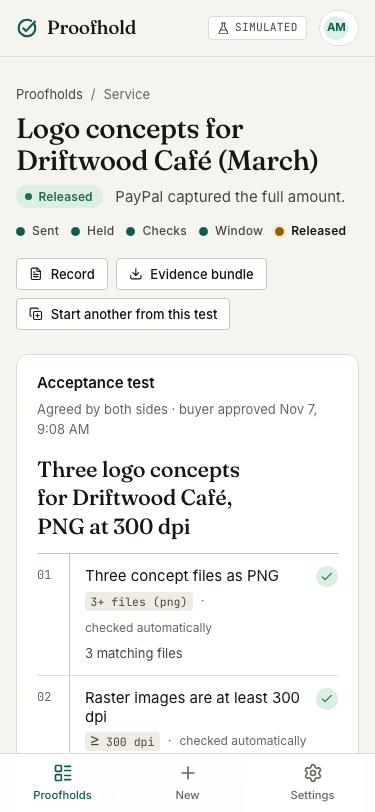
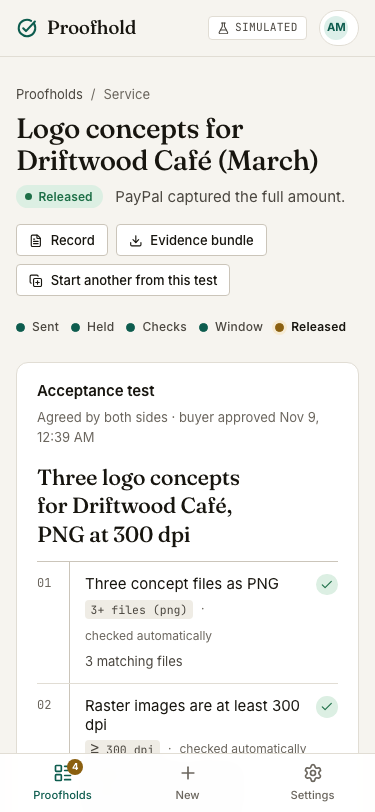
docs: design iteration 2, motion system, third critique and gallery
The Braintrust study and what was taken from it, the motion table, the third
critique's 23 findings with their fixes, the regenerated screenshots with the
new inspector shot, and the build log entry.

diff --git a/scripts/screens.ts b/scripts/screens.ts
@@ -29,6 +29,11 @@ const shots: {
 }[] = [
   { name: "landing", path: "/", widths: [1280, 375] },
   { name: "ledger", path: "/app", widths: [1280, 375] },
+  {
+    name: "ledger-inspector",
+    path: `/app?peek=${by("awaiting_buyer").id}`,
+    widths: [1440],
+  },
   { name: "compose", path: "/app/new?kind=service&amount=420" },
   {
     name: "seller-window-open",

diff --git a/docs/acceptance-matrix.md b/docs/acceptance-matrix.md
@@ -124,6 +124,38 @@ A separate reviewer drove the whole journey again at 375, 768 and 1280 px in bot
 
 Verified after the fixes: 128 unit tests, four flows and both axe scans pass on the integrated tree.
 
+## Third critique pass (2026-11-09, design iteration 2)
+
+An independent reviewer read the iteration-2 source and drove the served build at 390, 768, 1024, 1230 and 1440 px in both schemes, measuring with scripts rather than by eye. Twenty-three findings; what was done with each:
+
+| #   | Finding                                                                                                        | Fix                                                                                                                                                                                                  |
+| --- | -------------------------------------------------------------------------------------------------------------- | ---------------------------------------------------------------------------------------------------------------------------------------------------------------------------------------------------- |
+| 1   | The ledger never reached its dense layout at 1440 px: `main` kept `margin: 0 auto` inside the shell grid, so it was 973 px wide and the rows fell under the container breakpoint | `main` stretches in the shell grid; the dense row layout starts at 46rem of container width and drops the time column between 46 and 58rem so rows stay one line beside the inspector |
+| 2   | Below 72rem the inspector rendered above the list and off-screen after a `scroll={false}` click                   | The inspector and the peek buttons are desktop tools (≥72rem); on narrower screens the row opens the detail page                                                                                     |
+| 3   | Keyboard users had to tab through every remaining row to reach the inspector; Escape did nothing                  | The inspector is a client component: focus moves to its title when it opens, Escape closes it, peek links carry `aria-controls`, and it precedes the list in DOM order (visual order by grid `order`) |
+| 4   | Everything below the hero was `opacity: 0` in server HTML until hydration; no-JS, print and cold loads saw blank sections | `Reveal` no longer hides anything on the server; at mount it hides only what is below the fold, then reveals on entry                                                                           |
+| 5   | The hero sample hard-coded dates, so after 2026-11-15 it would read "Releases in now"                               | `sample(now)` derives every date from the current time (agreed 3 d ago, delivered 1 h ago, window open 71 h)                                                                                         |
+| 6   | Hero fine print said "runs against the PayPal sandbox today" while the same server said "Simulated PayPal"         | Fine print and the frame's badge are rendered from `systemInfo()`                                                                                                                                    |
+| 7   | The hero frame was 2026 px tall on phones before any explanation                                                     | The window is cropped (28–40rem, 36rem on desktop) with a fade and a caption that says so                                                                                                            |
+| 8   | The inspector's compact rail clipped its last steps in a 20rem panel                                                 | The inspector uses the dot rail                                                                                                                                                                      |
+| 9   | The inspector's seal read $0.00 DISPUTED and "HELD BY PAYPAL" around a CAPTURED stamp                                | The remaining amount is shown only while a hold is open; `holderFor(status)` words the ring (Captured by PayPal, Returned to buyer, In PayPal dispute…) on the inspector and the hold card            |
+| 10  | Double ellipsis after the hash                                                                                       | Removed                                                                                                                                                                                              |
+| 11  | "Outbox 44" counted every message ever, in the attention colour                                                      | Counts messages from the last day, in a quiet grey                                                                                                                                                    |
+| 12  | 466 px of empty sidebar                                                                                              | A resting block: the amount held by PayPal, the number of holds, and the three groups with counts as links                                                                                           |
+| 13  | Phone rows: title and status pill fought for one line                                                                | Stacked layout gives the title the full width and moves the pill to the time row                                                                                                                      |
+| 14  | Section 05 was the only block without a UI plate                                                                     | A three-step objection plate: the buyer's reason, the seller's 60% offer, PayPal's partial capture                                                                                                    |
+| 15  | Three "See it in the app" links all went to the start page                                                            | Removed; the plate shows the thing instead                                                                                                                                                           |
+| 16  | On the teal block the accent clause was the low-contrast one                                                          | The accent is `--brand-ink`; the rest of the headline is dimmed                                                                                                                                       |
+| 17  | 0.65rem type under the brand scale's floor                                                                            | Every mono label uses `--text-xs`                                                                                                                                                                     |
+| 18  | "typical time to release under a minute" came from demo windows                                                       | Suffixed "(demo windows)" when `DEMO_SILENCE_MINUTES` is set                                                                                                                                           |
+| 19  | The peek button was faint and unlabelled                                                                               | `title="Inspect"`, ink colour, brand colour when active                                                                                                                                                 |
+| 20  | Row rings never showed verdicts                                                                                        | Checks are loaded for the whole list in one query and the rings colour by verdict                                                                                                                      |
+| 21  | The frame's address bar showed an invented domain                                                                      | Path only                                                                                                                                                                                              |
+| 22  | The section index had no programmatic current item                                                                     | `aria-current` on the active link                                                                                                                                                                      |
+| 23  | Buyer intro said "sent you a payment hold to approve" on released proofholds                                           | Tense by status                                                                                                                                                                                        |
+
+Also from the pass: the empty first header cell of the compare table has a visually hidden "Question". Verified as fine without change: every sampled colour pair, hit targets, reduced motion, dark mode, no horizontal overflow at any width.
+
 ## Known gaps
 
 - Everything PayPal is simulated on this machine; rows 17 and 19 turn green only with sandbox credentials and a public URL.

diff --git a/docs/design-iteration-2.md b/docs/design-iteration-2.md
@@ -1,0 +1,31 @@
+# Design iteration 2: what Braintrust does well, and what Proofhold takes from it
+
+Studied on 2026-11-08: [braintrust.dev](https://www.braintrust.dev), its [Observe product page](https://www.braintrust.dev/product/observe), [docs](https://docs.braintrust.dev) and [pricing](https://www.braintrust.dev/pricing). Principles only; Proofhold keeps its own palette, type and voice.
+
+## What Braintrust does that works
+
+| Pattern | What it does for the reader | Proofhold's version |
+| --- | --- | --- |
+| **The product is the hero.** A full, realistic UI frame (sidebar, filter bar, numbered table, inspector panel) sits under a one-line coloured band that names what you are looking at; the frame is cropped at the bottom so it reads as a window, not a poster. | You understand the product before reading a paragraph. | The hero frame is the real seller page for a held proofhold, rendered by the real components, under a teal band: "The seller's page, the moment the buyer approves." |
+| **A sticky section index** in mono caps at the left (WORKFLOW, PLATFORM, SCALE…), with a dash that moves as you scroll. | You always know where you are in a long page and can jump. | BRIEF · HOLD · CHECKS · RELEASE · WHEN IT GOES WRONG · WHAT IS REAL · COMPARE, scroll-spied, hidden on phones. |
+| **Colour blocks per section**, alternating paper with bold tints, each carrying one dense UI plate on a muted tinted backing. | Rhythm; each section is one idea with one piece of evidence. | Paper, brand-soft, held-soft and an ink band for the failure paths; plates carry the Sheet, the buyer page, the verdicts, the seals, the rail. |
+| **Feature triads**: icon, bold title, one-line description, then pill links "Explore … ↗". | Scannable; the link is a promise, not a button. | Three per section, lucide icons, arrow pills that go to the docs or the app. |
+| **Dense, honest data UI**: filter chips (All logs ▾ · Traces ▾ · All time ▾ · Add filter), numbered rows, small mono ids, relative times, a right-hand inspector with tabs. | Operators trust what looks like the real tool. | The ledger gets a chip bar (group, kind, sort, search), numbered rows with mono ids and relative times, and an inspector panel that opens beside the list on desktop without leaving the page. |
+| **Left sidebar app shell** with a workspace switcher, icon list and counts. | Navigation that scales past three items and shows state at rest. | A sidebar on desktop (Proofholds with a needs-attention count, New, Outbox, Settings, and a modes block); the bottom bar stays on phones. |
+| **Headline rhythm**: a plain large headline at a light weight, with the second clause in the brand colour. | One idea, one accent. | Fraunces headline, the second clause in teal. |
+| **Micro-motion**: hover icons shift 5–7 px over 350–400 ms on one curve; nothing loops. | Feedback that explains, never decorates. | Feature icons nudge on hover; sections rise 12 px as they enter; the seal arcs draw in on view; the index dash slides. All collapse under reduced motion. |
+
+What we do not take: the blue, the tick-tape art, the testimonial wall (we have no customers and will not invent any), the pricing page (there is no price), and copy that speaks to AI teams.
+
+## Changes in this iteration
+
+1. **Landing rebuilt** around the frame-and-index structure above. Same start form, same comparison table, same honesty section, new arrangement and motion.
+2. **App shell**: a left sidebar on desktop with counts and a modes block; the phone layout is unchanged.
+3. **Ledger**: chip filter bar, numbered rows with mono ids and relative time, and an inspector panel (`?peek=<id>`) that shows the seal, the next step, the buyer, the amounts and the links beside the list.
+4. **Motion system** written down: durations 120/180/280/400 ms, one ease-out for entrances and one ease-in-out for position changes, reveal-on-view for landing sections, hover nudges, no loops except the live "checking" pulse.
+
+Verification: the existing flows, the axe scan, screenshots at three widths, a third independent critique.
+
+## Shipped (2026-11-09)
+
+All four changes are on `feat/iteration-2-landing-shell`. Two departures from the plan above, both deliberate: the hero frame shows the buyer window rather than "the moment the buyer approves", because the window is the state where every piece (verdicts, countdown, seal, agreement) is on screen at once; and the triads carry mono pills rather than icons, which keeps the landing on the ledger's own vocabulary. The third critique pass and its fixes are in [acceptance-matrix.md](acceptance-matrix.md).

diff --git a/docs/design.md b/docs/design.md
@@ -33,7 +33,18 @@ Looked at on 2026-10-28, in the built-in browser, at phone width. Principles onl
 
 ### Motion
 
-Three durations (120, 180, 280 ms), one ease-out. The stamp lands with a short scale-down and settle; ring arcs draw in when a verdict arrives; status dots pulse only while something is genuinely in progress. Under `prefers-reduced-motion`, every transition collapses to an instant change and nothing pulses.
+Four durations and two curves, written down so every surface moves the same way:
+
+| Token | Value | Used for |
+| --- | --- | --- |
+| `--t-fast` | 120 ms | colour and background changes on hover and focus |
+| `--t-base` | 180 ms | hover nudges (an arrow moves 2–3 px, a card lifts 2 px), the stamp's settle |
+| `--t-slow` | 280 ms | position changes: the inspector sliding in, the index dash, ring arcs drawing in |
+| reveal | 400 ms | landing sections rising 12 px as they first enter view, staggered 60 ms across a triad |
+| `--ease-out` | cubic-bezier(0.2, 0.8, 0.2, 1) | every entrance and nudge |
+| `--ease-in-out` | cubic-bezier(0.65, 0, 0.35, 1) | anything that moves from one resting place to another |
+
+Rules: nothing loops except the status dot while a check is genuinely running; motion explains a change of state and never decorates; anything the reader has already scrolled past is shown at once rather than waiting for a reveal. Under `prefers-reduced-motion`, every transition collapses to an instant change and nothing pulses. The second iteration, which took the frame-and-index landing, the sidebar shell and the ledger inspector from a study of Braintrust, is in [design-iteration-2.md](design-iteration-2.md).
 
 ### Voice
 

diff --git a/README.md b/README.md
@@ -93,7 +93,9 @@ The interface is built on one idea: the acceptance test is a document and the Pa
 - **The Sheet** (`src/components/proofhold/test-view.tsx`): the test as a ruled page with a numbered margin, who agreed and when, and the hash that was written into the PayPal order.
 - **The Rail** (`src/components/proofhold/rail.tsx`): Proposed, Held, Checking, Buyer window, Released or Returned, on every page and on the landing.
 
-Tokens live in `src/app/globals.css`; the rules, colour contrast table and asset licences are in [docs/brand.md](docs/brand.md); the research and the three directions considered are in [docs/design.md](docs/design.md).
+Around those three pieces: a landing page that shows the product itself under a teal band, with a sticky section index and one real UI plate per section; a seller shell with a sidebar on desktop (counts for what needs attention and what is in the outbox, the modes in force) and a bottom bar on phones; and a ledger with numbered rows, mono ids, relative times and an inspector panel (`/app?peek=<id>`) that opens beside the list.
+
+Tokens live in `src/app/globals.css`; the rules, colour contrast table and asset licences are in [docs/brand.md](docs/brand.md); the research, the three directions considered and the motion system are in [docs/design.md](docs/design.md); the second iteration's study of Braintrust and what was taken from it is in [docs/design-iteration-2.md](docs/design-iteration-2.md).
 
 ## Notifications and the record
 

diff --git a/docs/build-log.md b/docs/build-log.md
@@ -31,4 +31,5 @@ Milestones in order. Each entry names the branch or PR that delivered it.
 - [x] 2026-11-01 Motion and detail pass: seal arcs draw in, rail breathes only while checking, buyer standing and what-happens-if list, skip links; production-build measurements; second critique (PR #9, feat/motion-and-detail)
 - [x] 2026-11-01 Second critique: evidence frozen once submitted, withdraw-and-resubmit transition, live buyer page, abstain-only simulated examiner, tick hidden without a secret, anonymous mutations refused, deadlines read from briefs, and twelve smaller fixes (PR #9)
 - [x] 2026-11-07 Judge-ready seed covering every state, screenshot gallery, Devpost draft refreshed, demo video pipeline and a 2:10 cut from the simulated build (PR #10, feat/demo-seed-and-submission)
+- [x] 2026-11-09 Design iteration 2 after a study of Braintrust: landing rebuilt as product frame, sticky index and colour blocks with real UI plates and reveal-on-view motion; sidebar shell with live counts; ledger numbered rows, mono ids, relative times and an inspector panel; motion system documented (PR #11, feat/iteration-2-landing-shell)
 - [ ] Production deployment: render.yaml ready; needs the GitHub repo, PayPal sandbox credentials and an Anthropic key

diff --git a/docs/submission.md b/docs/submission.md
@@ -64,8 +64,9 @@ Next.js, React, TypeScript, Node.js, SQLite, PostgreSQL, PayPal REST APIs (Order
 
 ## Gallery (docs/screens)
 
-1. `landing.png` — the hero: a real acceptance test with the seal at its corner, and the start form.
-2. `ledger.png` — the seller's ledger with every state, search, buckets, sort and CSV.
+1. `landing.png` — the hero: the two-tone headline, the start form, and the product itself on a teal band.
+2. `ledger.png` — the seller's ledger with every state: sidebar with live counts, numbered rows, verdict rings, search, buckets, sort and CSV.
+2b. `ledger-inspector-1440.png` — the inspector open beside the list: seal, status, next step and the PayPal ids without leaving the page.
 3. `buyer-approve.png` — what the buyer agrees to: the sheet, both signatures, the hash, and the questions.
 4. `seller-window-open.png` — checks passed, the buyer window open, the seal half-lit.
 5. `buyer-decide.png` — a blocked line routed to the buyer: no deadline, confirm or object.
